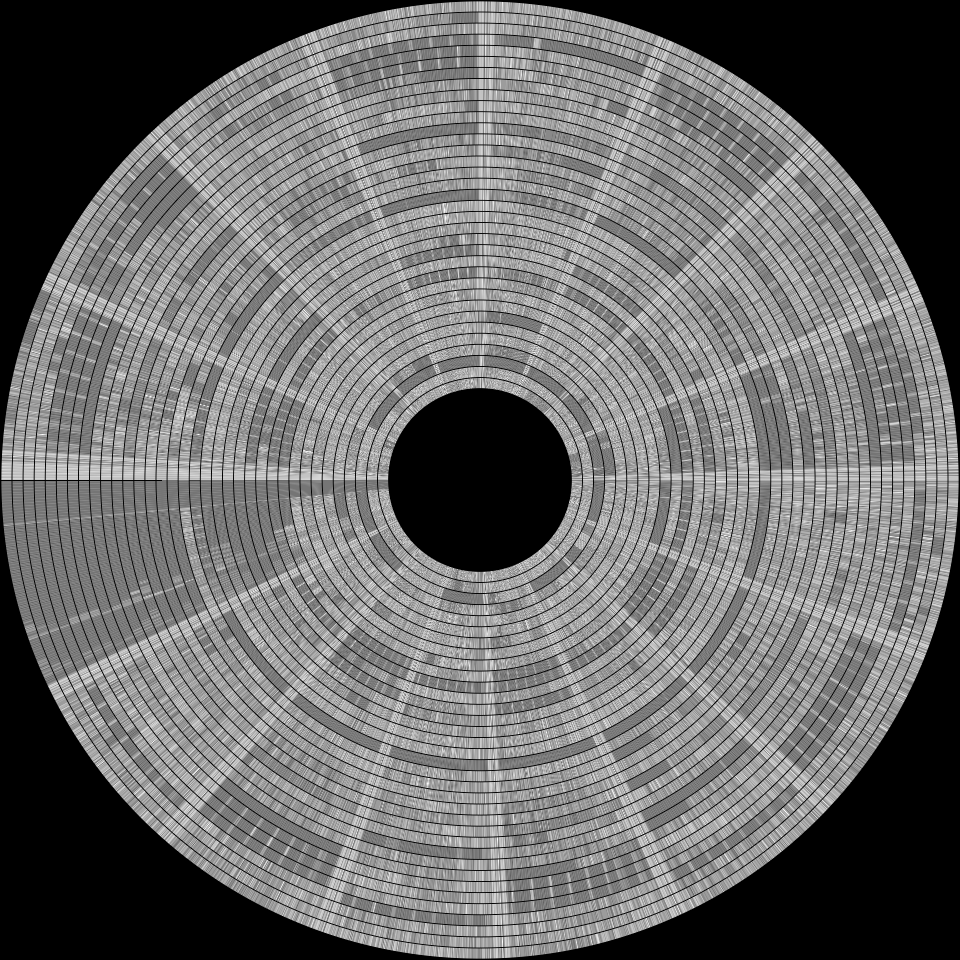
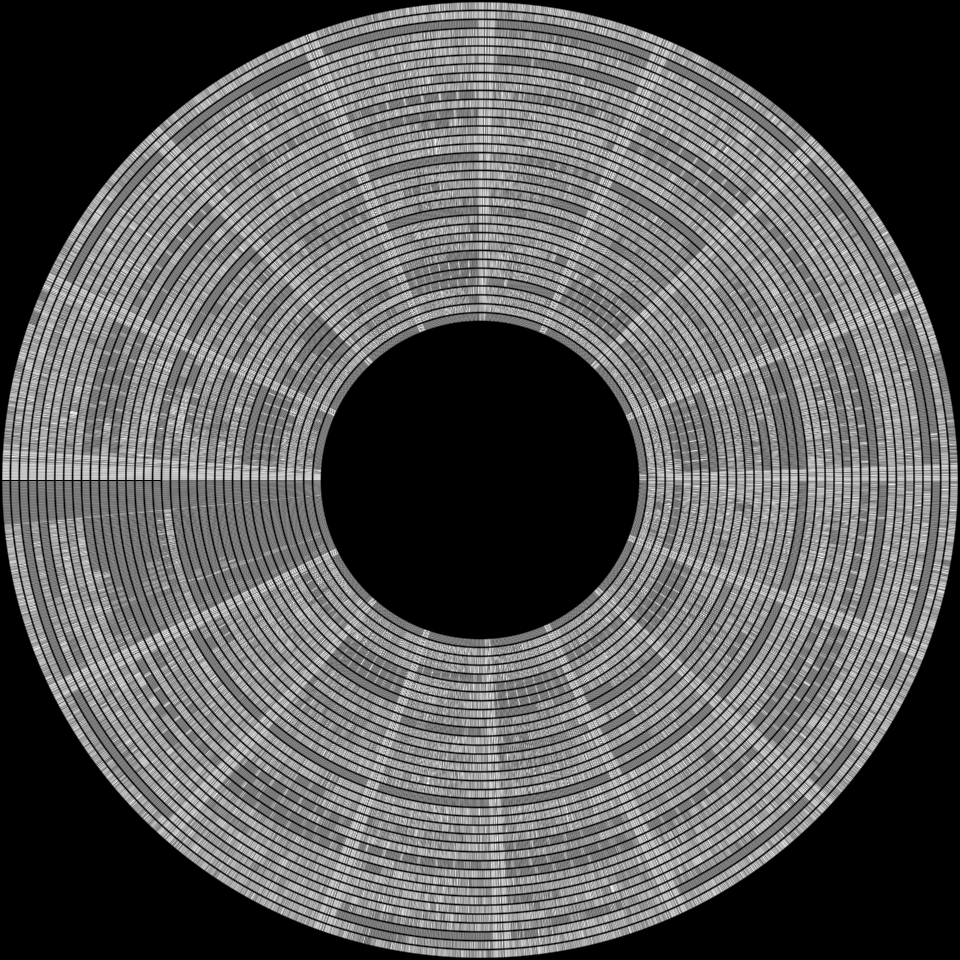
Fix track order, inner size

diff --git a/fluxvis/__main__.py b/fluxvis/__main__.py
@@ -5,27 +5,28 @@ from skimage.io import imsave
 from greaseweazle.image.scp import SCP
 
 @click.command()
-@click.option("--slices", default=4000, help="The angular resolution of the flux in 1/revolution")
-@click.option("--stacks", default=6, help="The pixel thickness of a track")
-@click.option("--center", default=90, help="The pixel thickness of the central hole")
-@click.option("--tracks", default=80, help="The total count of tracks")
-@click.option("--stride", default=1, help="Stride between tracks")
-@click.option("--start", default=0, help="Number of the first tracks")
-@click.option("--side", default=0, help="Side of floppy")
-@click.option("--resolution", default=960, help="Resolution of square output image")
+@click.option("--slices", default=4000, help="The angular resolution of the flux in 1/revolution (default: 4000)")
+@click.option("--stacks", default=6, help="The pixel thickness of a track (default: 6)")
+@click.option("--diameter", default=108., help="The diameter of the outermost track, in track-widths (5.25\" disk is approximately 108, 3.5\" disk is approximately 210 (default: 108)")
+@click.option("--tracks", default=80, help="The total count of tracks (default: 80)")
+@click.option("--stride", default=1, help="Stride between tracks (default: 1)")
+@click.option("--start", default=0, help="Number of the first tracks (default: 0)")
+@click.option("--side", default=0, help="Side of floppy (default: 0)")
+@click.option("--resolution", default=960, help="Resolution of square output image (default: 960)")
 @click.argument("input", type=click.Path(exists=True))
 @click.argument("output", type=click.Path())
-def main(slices, stacks, center, tracks, input, output, stride, start, side, resolution):
+def main(slices, stacks, diameter, tracks, input, output, stride, start, side, resolution):
     """Visualize INPUT (an scp-format flux file) to OUTPUT (a png file)
     """
     flux = SCP.from_file(input)
-    
-    density = np.zeros((stacks*tracks+center, slices), dtype=np.float32)
+
+    major = round(diameter*stacks/2)
+    density = np.zeros((major , slices), dtype=np.float32)
     r = np.arange(slices)
 
     for cyl in range(0, tracks):
-        t0 = center + cyl * stacks
-        t1 = center + (1+cyl) * stacks - 1
+        t0 = major - (1+cyl) * stacks
+        t1 = major - cyl * stacks - 1
         track = flux.get_track(cyl*stride+start, side)
         if track is None: continue
         track.cue_at_index()
@@ -36,9 +37,9 @@ def main(slices, stacks, center, tracks, input, output, stride, start, side, res
         index = track.index_list[0]
         indices = np.array(track.list, dtype=np.float32) * (slices/index)
         indices = np.floor(np.add.accumulate(indices))
-        hi = np.searchsorted(indices, r, 'left'),
-        lo = np.searchsorted(indices, r, 'right')
-        density[t0:t1, :] = lo - hi
+        lo = np.searchsorted(indices, r, 'left'),
+        hi = np.searchsorted(indices, r, 'right')
+        density[t0:t1, :] = hi - lo
 
     wrapped = invpolar.warp_inverse_polar(density, output_shape=(resolution, resolution))
     maxdensity = np.max(wrapped)
